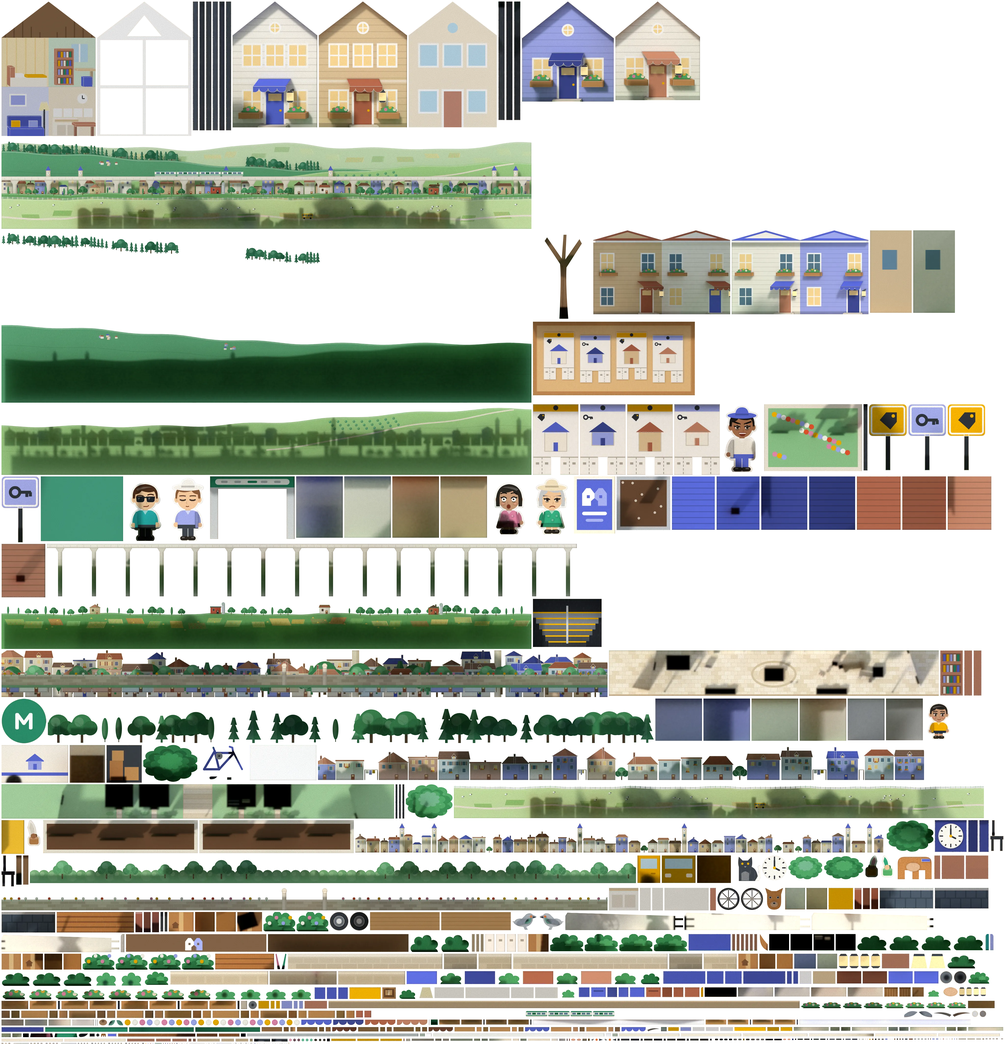
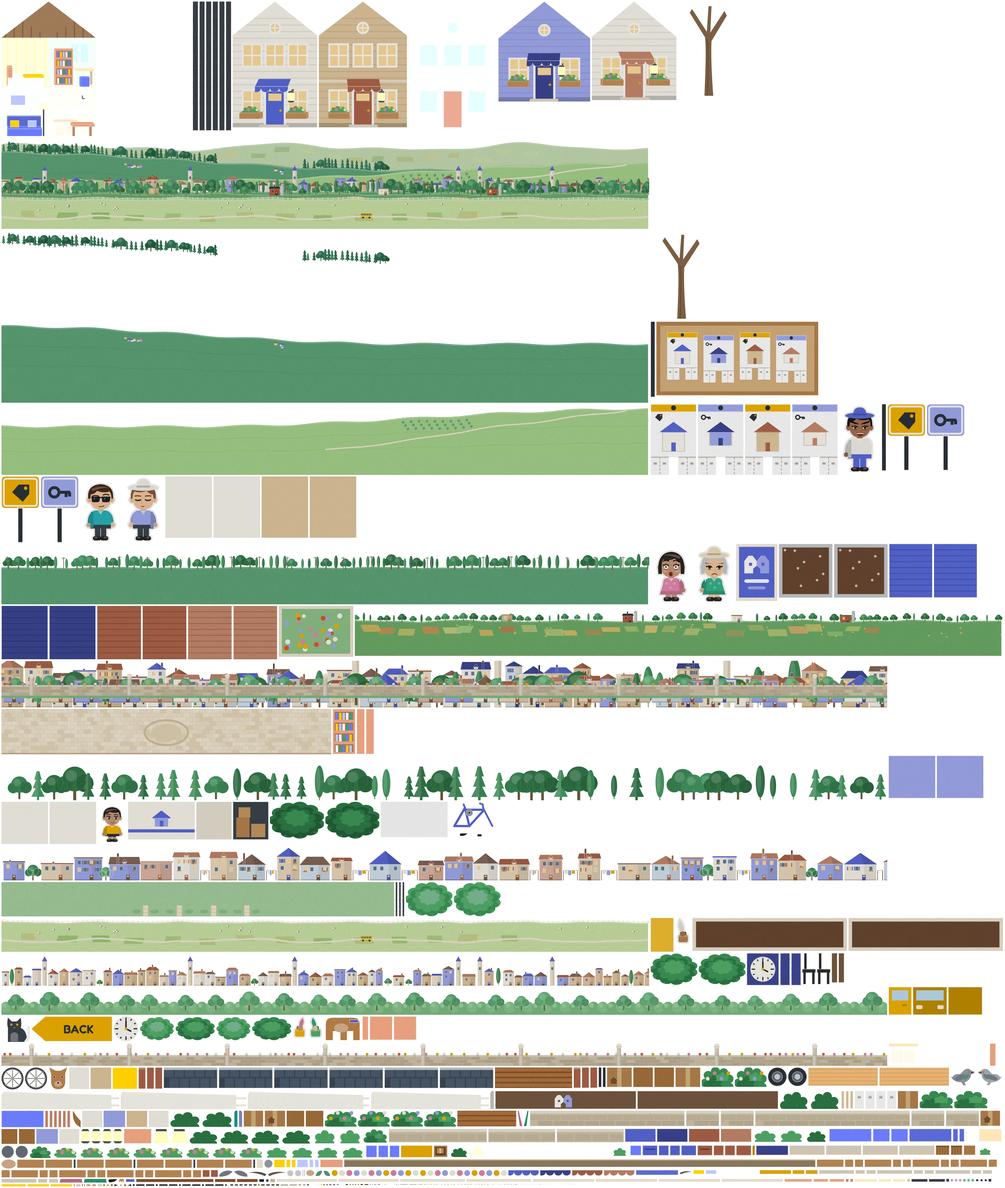
papercraft: a layout of its own for the hometown green; MRT pieces removed
The homes now close the middle of the back and the valley opens at both ends,
the reverse of the Blibli street. The relief buildings at the sides, the MRT
exit and the MRT line across the valley are gone; a poplar avenue takes the
line's place. The flyer board, the way back and the visit sign stand at the
open left end; the tree, bench and bicycle at the open right end.
The baked art in this commit predates these changes.

Claude-Session: https://claude.ai/code/session_01YPNotSbbJKW5yf9dC5KJqA

diff --git a/game/src/art/scenes/hometown.ts b/game/src/art/scenes/hometown.ts
@@ -3,10 +3,10 @@ import { CREAM, cloud } from '../recipes.ts';
 import { bench, bicycle, bush, disc, fawning, fbox, fflat, fflowers, flamp, frame, piece, pigeon, planter, shadeTree, shopper, toCamera, tone, type Frame } from './promenade.ts';
 import { streetLamp } from './street.ts';
 
-// Moperty's hometown square. You come up from the MRT into the square of a small town where a handful of homes are on
-// offer. The square is the main space. A lane between the homes drops to the valley, the one open view. A house turned
-// inward at each end closes the sides. Nothing here is a screen: the flyer board lists the homes, and a home opens on
-// its fold like a doll's house.
+// Moperty's hometown green. A handful of homes on offer stand shoulder to shoulder along the back of a green on a ridge.
+// The green is the main space. The homes close the middle of the back; at both ends the ridge falls away and the valley
+// is the open view, over a low wall. Nothing stands at the sides but trees. Nothing here is a screen: the flyer board
+// lists the homes, and a home opens on its fold like a doll's house.
 const INDIGO = '#5b6bdc', LAV = '#a3adf2', YEL = '#f5b400', BRICK = '#b0664c', TILE = '#c98a6e', STONE = '#e3c9a0', WHITE = '#fbf7ee', STEEL = '#2f343c', TEAL = '#2a8d6a';
 const LIT = '#ffdf9e', GLASS = '#5d7f95', GRASS = '#a9d3a2', KRAFT = '#b98450';
 const X0 = -1600, X1 = 1600, GARDEN = -60, BACK = -340, FRONT = 380, HZ = -150, HD = 190;
@@ -21,14 +21,14 @@ const mark = (k: number, a: string, b: string, m = '#fff') => `<g transform="sca
 const offer = (kind: Offer, c: string) => kind === 'sale' ? `<path d="M6 17L17 4H35V20L24 33Z" fill="${c}"/><circle cx="29" cy="10" r="3" fill="${YEL}"/>` : `<circle cx="11" cy="17" r="8" fill="none" stroke="${c}" stroke-width="5"/><path d="M19 17H38M31 17V25M37 17V24" stroke="${c}" stroke-width="5" fill="none"/>`;
 type Offer = 'sale' | 'rent';
 type Home = { id: string; x: number; w: number; wall: number; peak: number; c: string; roof: string; door: string; offer: Offer; storeys: 1 | 2; chimney?: boolean };
-// The four homes on the square, left to right. The lane runs between the second and the third.
+// The four homes on the green, left to right, close together: no way through between them.
 const HOMES: Home[] = [
-  { id: 'h1', x: -640, w: 230, wall: 250, peak: 92, c: WHITE, roof: INDIGO, door: INDIGO, offer: 'sale', storeys: 2, chimney: true },
-  { id: 'h2', x: -355, w: 250, wall: 172, peak: 100, c: LAV, roof: tone(INDIGO, -.32), door: tone(INDIGO, -.32), offer: 'rent', storeys: 1 },
-  { id: 'h3', x: 355, w: 240, wall: 250, peak: 92, c: STONE, roof: BRICK, door: BRICK, offer: 'sale', storeys: 2 },
-  { id: 'h4', x: 650, w: 230, wall: 172, peak: 96, c: WHITE, roof: TILE, door: TILE, offer: 'rent', storeys: 1, chimney: true }];
+  { id: 'h1', x: -425, w: 230, wall: 250, peak: 92, c: WHITE, roof: INDIGO, door: INDIGO, offer: 'sale', storeys: 2, chimney: true },
+  { id: 'h2', x: -150, w: 250, wall: 172, peak: 100, c: LAV, roof: tone(INDIGO, -.32), door: tone(INDIGO, -.32), offer: 'rent', storeys: 1 },
+  { id: 'h3', x: 130, w: 240, wall: 250, peak: 92, c: STONE, roof: BRICK, door: BRICK, offer: 'sale', storeys: 2 },
+  { id: 'h4', x: 400, w: 230, wall: 172, peak: 96, c: WHITE, roof: TILE, door: TILE, offer: 'rent', storeys: 1, chimney: true }];
 
-/* ---------- ground: the square, the front gardens and the lane ---------- */
+/* ---------- ground: the green's paving and the grass behind it ---------- */
 function ground(): Panel[] {
   const W = X1 - X0, D = FRONT - GARDEN, SETT = ['#f1e4cc', '#f6ecd8', '#e9dabd', '#f3e7d0'];
   let setts = '';
@@ -38,23 +38,23 @@ function ground(): Panel[] {
   // Both sheets ship as sixteen tiles: the camera here leans in close, and with wider tiles the browser's 3D sorting tears
   // holes in the ground where standing pieces' planes cut across it.
   const square: Panel = { id: 'square', stock: 'greyboard', c: '#e2d3b6', w: W, h: D, o: [X0, 0, FRONT], u: [1, 0, 0], v: [0, 0, -1], density: .42, edge: 'fold', split: 16, print: `<rect width="${W}" height="${D}" fill="#dccdb0"/>${setts}${ring}<rect y="${D - 14}" width="${W}" height="14" fill="#cdb48c"/>` };
-  // The gardens: grass, with the lane's setts running through and a path from each gate to its door.
+  // The grass behind: the homes' gardens in the middle, open verge at both ends, and a path from each gate to its door.
   const GD = GARDEN - BACK;
   const paths = HOMES.map(h => `<rect x="${h.x - X0 - 22}" y="${GD - (GARDEN - HZ)}" width="44" height="${GARDEN - HZ}" fill="#e9dabd"/>${[0, 1, 2].map(k => `<rect x="${h.x - X0 - 18}" y="${GD - 28 - k * 30}" width="36" height="22" rx="4" fill="#f6ecd8"/>`).join('')}`).join('');
   const beds = HOMES.map(h => `<ellipse cx="${h.x - X0 - h.w * .32}" cy="${GD - 40}" rx="34" ry="16" fill="#8fc48a"/><ellipse cx="${h.x - X0 + h.w * .32}" cy="${GD - 40}" rx="34" ry="16" fill="#8fc48a"/>`).join('');
   const garden: Panel = { id: 'garden', stock: 'sugar', c: GRASS, w: W, h: GD, o: [X0, 0, GARDEN], u: [1, 0, 0], v: [0, 0, -1], density: .5, edge: 'fold', split: 16,
-    print: `<rect width="${W}" height="${GD}" fill="${GRASS}"/><rect x="${-X0 - 120}" width="240" height="${GD}" fill="#dccdb0"/>${Array.from({ length: 7 }, (_, i) => `<rect x="${-X0 - 116}" y="${i * 40 + 2}" width="232" height="36" fill="${SETT[i % 4]}"/>`).join('')}${paths}${beds}` };
+    print: `<rect width="${W}" height="${GD}" fill="${GRASS}"/>${paths}${beds}` };
   const skirt: Panel = { id: 'square-skirt', stock: 'greyboard', c: '#9a8566', w: W, h: 50, o: [X0, -50, FRONT + 1], u: [1, 0, 0], v: [0, 1, 0], density: .6, edge: 'cut', split: 2, print: `<rect width="${W}" height="8" fill="#cdb48c"/>` };
   return [square, garden, skirt];
 }
 
-/* ---------- the open view down the lane: a shadow box ---------- */
+/* ---------- the open view at both ends of the green: a shadow box ---------- */
 // Thin cut layers stood well apart, alternating pale and deep, each shading the next; real in the bake, then flattened
 // onto two cards. Card one is the lower town just below the square. Card two, further back, is the valley floor and the
 // far bank and the hills.
 type Card = { id: string; x0: number; z: number; w: number; density: number };
-const NEAR: Card = { id: 'lane-near', x0: -1300, z: -480, w: 2600, density: .95 };
-const FAR: Card = { id: 'lane-far', x0: -1800, z: -740, w: 3600, density: .6 };
+const NEAR: Card = { id: 'lane-near', x0: -1900, z: -480, w: 3800, density: .95 };
+const FAR: Card = { id: 'lane-far', x0: -2200, z: -740, w: 4400, density: .6 };
 const sheet = (card: Card, id: string, gap: number, y0: number, h: number, c: string, mask: string, print = '', stock: Panel['stock'] = 'sugar'): Panel =>
   ({ id, stock, c, w: card.w, h, o: [card.x0, y0, card.z + gap], u: [1, 0, 0], v: [0, 1, 0], edge: 'cut', density: card.density, decal: card.id, mask, print });
 /* The landscape kit. Every layer of the view is one cut sheet whose top edge is a profile: a height above the sheet's
@@ -162,13 +162,13 @@ function laneView(): Panel[] {
   // 4. Back gardens: a clipped hedge with fruit trees and bean poles standing out of it.
   const GH = 118; let gm = `<rect y="${GH - 30}" width="${W}" height="30" fill="#fff"/>`, gp = '';
   for (let x = 0; x < W; x += 40) { gm += `<circle cx="${x + 20}" cy="${GH - 32}" r="24" fill="#fff"/>`; gp += `<circle cx="${x + 20}" cy="${GH - 32}" r="24" fill="${x % 80 ? '#7fbf86' : '#8fc994'}"/><circle cx="${x + 12}" cy="${GH - 40}" r="10" fill="#a3d6a3"/>`; }
-  const orchard = woods(W, GH, () => 30, [[0, mid - 200], [mid + 200, W]], ['oak'], ['#5fb07a', '#6fbf86'], 60, 84, 150);
-  // 5. The wall at the foot of the lane: stone, coped, with gate posts where the lane goes through and flowers along it.
+  const orchard = woods(W, GH, () => 30, [[0, W]], ['oak'], ['#5fb07a', '#6fbf86'], 60, 84, 150);
+  // 5. The wall along the back of the green: coursed stone with a coping, flowers growing along its top, a pier every so often.
   const WH = 96;
   let wm = `<rect y="${WH - 46}" width="${W}" height="46" fill="#fff"/>`, wp = `<rect y="${WH - 46}" width="${W}" height="46" fill="#cfc2aa"/><rect y="${WH - 46}" width="${W}" height="7" fill="#e6dccb"/>`;
   for (let row = 0; row < 3; row++) for (let x = row % 2 ? -18 : 0; x < W; x += 36) wp += `<rect x="${x + 1}" y="${WH - 38 + row * 13}" width="34" height="11" fill="${pick(['#c6b89e', '#d6c9b0', '#bfb096'])}"/>`;
-  for (let x = 14; x < W; x += r(22, 60)) if (Math.abs(x - mid) > 120) { wm += `<circle cx="${f(x)}" cy="${WH - 50}" r="6" fill="#fff"/>`; wp += `<circle cx="${f(x)}" cy="${WH - 50}" r="6" fill="${pick(['#e8552d', YEL, '#e88ab0', WHITE])}"/><rect x="${f(x - 1)}" y="${WH - 46}" width="2" height="6" fill="#4aa067"/>`; }
-  for (const gx of [mid - 96, mid + 78]) { wm += `<rect x="${gx}" y="14" width="18" height="${WH - 14}" fill="#fff"/><circle cx="${gx + 9}" cy="12" r="11" fill="#fff"/>`; wp += `<rect x="${gx}" y="14" width="18" height="${WH - 14}" fill="#e6dccb"/><rect x="${gx + 12}" y="14" width="6" height="${WH - 14}" fill="#d3c7b2"/><circle cx="${gx + 9}" cy="12" r="11" fill="#fff4e2"/>`; }
+  for (let x = 14; x < W; x += r(22, 60)) { wm += `<circle cx="${f(x)}" cy="${WH - 50}" r="6" fill="#fff"/>`; wp += `<circle cx="${f(x)}" cy="${WH - 50}" r="6" fill="${pick(['#e8552d', YEL, '#e88ab0', WHITE])}"/><rect x="${f(x - 1)}" y="${WH - 46}" width="2" height="6" fill="#4aa067"/>`; }
+  for (let gx = 120; gx < W; gx += 420) { wm += `<rect x="${gx}" y="14" width="18" height="${WH - 14}" fill="#fff"/><circle cx="${gx + 9}" cy="12" r="11" fill="#fff"/>`; wp += `<rect x="${gx}" y="14" width="18" height="${WH - 14}" fill="#e6dccb"/><rect x="${gx + 12}" y="14" width="6" height="${WH - 14}" fill="#d3c7b2"/><circle cx="${gx + 9}" cy="12" r="11" fill="#fff4e2"/>`; }
 
   // Card two, the valley, back to front. Nine layers, 30 to 50 units apart, alternating pale and deep. There is no water
   // in it: the Blibli street already has the river.
@@ -190,12 +190,9 @@ function laneView(): Panel[] {
   const road = `<path d="${rd}" stroke="#f4ead8" stroke-width="9" fill="none" stroke-linejoin="round"/>`;
   // 5. The far bank's town: a street of houses with towers and poplars.
   const DH = 220, town = street(FW, DH, 54, 110, 46, 88, ['#f4ead8', STONE, '#e8c9a8', WHITE, LAV], [BRICK, TILE, INDIGO, '#8a6a5c'], '#7c7f9c', .3, .4, ['poplar', 'tower', 'oak', 'oak']);
-  // 6. The MRT line crossing the valley on slim concrete piers, with a train on it: the line you arrived by, above ground.
-  const VH = 356, deck = 28, vm = `<rect width="${FW}" height="${deck}" fill="#fff"/>` + Array.from({ length: Math.ceil(FW / 230) }, (_, i) => `<path d="M${i * 230 + 60} ${deck}h60l-16 26V${VH}h-28V${deck + 26}Z" fill="#fff"/>`).join('');
-  const vp = `<rect width="${FW}" height="${deck}" fill="#e9e5da"/><rect width="${FW}" height="7" fill="#f8f5ec"/><rect y="${deck - 6}" width="${FW}" height="6" fill="#cfc9bb"/>` + Array.from({ length: Math.ceil(FW / 230) }, (_, i) => `<path d="M${i * 230 + 60} ${deck}h60l-16 26V${VH}h-28V${deck + 26}Z" fill="#dcd7ca"/><rect x="${i * 230 + 94}" y="${deck + 26}" width="10" height="${VH}" fill="#c9c3b4"/>`).join('') +
-    Array.from({ length: Math.ceil(FW / 46) }, (_, i) => `<rect x="${i * 46 + 20}" y="8" width="2.4" height="${deck - 14}" fill="#cfc9bb"/>`).join('');
-  const tx = fmid - 760, cars = [0, 1, 2, 3].map(i => `<rect x="${tx + i * 152}" y="2" width="146" height="40" rx="9" fill="FILL"/>`).join('');
-  const train = `${[0, 1, 2, 3].map(i => `<rect x="${tx + i * 152}" y="2" width="146" height="40" fill="${WHITE}"/><rect x="${tx + i * 152}" y="2" width="146" height="8" fill="${TEAL}"/><rect x="${tx + i * 152}" y="30" width="146" height="5" fill="${TEAL}"/>${[0, 1, 2, 3].map(k => `<rect x="${tx + i * 152 + 12 + k * 32}" y="14" width="24" height="12" fill="${k === 1 ? tone(TEAL, -.3) : GLASS}"/>`).join('')}`).join('')}`;
+  // 6. An avenue of poplars along the road below the town, on a low green bank, with telegraph poles between them.
+  const VH = 300, bank: Prof = rolling(250, 5, 140, 2.2), avenue = woods(FW, VH + 110, bank, [[0, FW]], ['poplar', 'poplar', 'oak'], ['#3f8f5a', '#347a4b', '#4aa067'], 70, 104, 58);
+  let pm = '', pp = ''; for (let x = 40; x < FW; x += 190) { const y = VH + 110 - bank(x) - 74; pm += `<rect x="${x}" y="${f(y)}" width="4" height="80" fill="#fff"/><rect x="${x - 12}" y="${f(y + 6)}" width="28" height="3" fill="#fff"/>`; pp += `<rect x="${x}" y="${f(y)}" width="4" height="80" fill="#7a5c42"/><rect x="${x - 12}" y="${f(y + 6)}" width="28" height="3" fill="#7a5c42"/>`; }
   // 7. Farmland on the valley floor: a deep band patched with ploughed fields, hedgerow trees, barns and a silo on its crest.
   const GHh = 250, farm: Prof = rolling(238, 9, 120, 1.7), farmTrees = woods(FW, GHh + 90, farm, [[0, fmid - 500], [fmid - 260, fmid + 200], [fmid + 520, FW]], ['oak', 'oak', 'poplar'], ['#3f8f5a', '#4aa067', '#347a4b'], 40, 64, 70);
   const barns: Art[] = [fmid - 380, fmid + 360, fmid + 1100, fmid - 1200].map((x, i) => join([building(x, GHh + 90 - farm(x) + 6, 70, 44, ['#c8553d', WHITE, '#c8553d', STONE][i], [STEEL, BRICK, '#5d4a3c', TILE][i], '#5d4a3c', 0),
@@ -217,7 +214,7 @@ function laneView(): Panel[] {
     far, sheet(FAR, 'lane-wood', 36, fy, BHh + 60, '#2f7453', wood1.m, wood1.p), sheet(FAR, 'lane-ridge', 52, fy, BHh, '#5fa77a', cut(FW, BHh, b), ridgeArt),
     sheet(FAR, 'lane-orchard', 92, fy, CHh, '#a9d68f', cut(FW, CHh, c2), crest(FW, CHh, c2, '#a9d68f') + orch + road),
     sheet(FAR, 'lane-town', 126, 140, DH, STONE, town.m, town.p),
-    sheet(FAR, 'lane-train', 156, fy + VH - 2, 44, WHITE, cars.replaceAll('FILL', '#fff'), train, 'cover'), sheet(FAR, 'lane-viaduct', 168, fy, VH, '#e9e5da', vm, vp, 'greyboard'),
+    sheet(FAR, 'lane-avenue', 164, fy, VH + 110, '#5fa77a', cut(FW, VH + 110, bank) + avenue.m + pm, crest(FW, VH + 110, bank, '#5fa77a', 0) + avenue.p + pp),
     sheet(FAR, 'lane-farm', 200, fy, GHh + 90, '#6fae6a', cut(FW, GHh + 90, farm) + farmTop.m, crest(FW, GHh + 90, farm, '#6fae6a', 0) + patches + hay + farmTop.p),
     sheet(FAR, 'lane-meadow', 232, fy, MH + 16, '#cfe6a8', cut(FW, MH + 16, mead) + fm + railsM, crest(FW, MH + 16, mead, '#cfe6a8', 0) + plots + `<path d="${ln}" stroke="#f4ead8" stroke-width="12" fill="none"/>` + bus + sheep + fp + rails)];
 }
@@ -353,7 +350,7 @@ const offerSign = (h: Home, i: number): Panel => ({ id: `sign-${i}`, stock: 'cov
   motion: { toy: 'flyer', at: [i + 1], slide: [0, 26, 0] } });
 
 /* ---------- the flyer board ---------- */
-// A roofed noticeboard at the mouth of the lane, one flyer for each home on the square: the home's own colours, a ribbon
+// A roofed noticeboard at the left end of the green, one flyer for each home on the square: the home's own colours, a ribbon
 // in yellow (for sale) or lavender (for rent), and a fringe of tear-off tabs. Each A tears one tab off the next flyer.
 function flyerBoard(x: number, z: number, rot: number): Panel[] {
   const P = piece(x, z, rot), W = 330, BH = 150, y0 = 62;
@@ -374,23 +371,6 @@ function flyerBoard(x: number, z: number, rot: number): Panel[] {
     return [body, tab];
   });
   return [back, ...posts, ...roof, ...flyers];
-}
-
-/* ---------- the MRT exit ---------- */
-// A small head house: the stair down to the platforms under a teal canopy, and the station totem beside it.
-function mrtExit(x: number, z: number): Panel[] {
-  const W = 230, H = 170, D = 150, x0 = x - W / 2, fz = z + D / 2;
-  const front: Panel = { id: 'mrt-front', stock: 'greyboard', c: '#c9d0d6', w: W, h: H, o: [x0, 0, fz], u: [1, 0, 0], v: [0, 1, 0], edge: 'cut', density: 1.5,
-    mask: `<path fill-rule="evenodd" d="M0 0H${W}V${H}H0Z M22 ${H}V34H${W - 22}V${H}Z" fill="#fff"/>`, print: `<rect width="${W}" height="${H}" fill="#c9d0d6"/><rect width="${W}" height="30" fill="${TEAL}"/><rect x="14" y="7" width="${W - 28}" height="16" rx="8" fill="#fff"/>${[0, 1, 2, 3, 4].map(k => `<rect x="${30 + k * 36}" y="12" width="${k === 2 ? 26 : 18}" height="6" rx="3" fill="${k === 2 ? TEAL : '#b9c0c8'}"/>`).join('')}` };
-  // The stair, going down into the dark: each tread a step lower and a tone deeper.
-  const stair: Panel = { id: 'mrt-stair', stock: 'greyboard', c: '#3d444e', w: W - 30, h: H - 30, o: [x0 + 15, 0, fz - 40], u: [1, 0, 0], v: [0, 1, 0], edge: 'fold', density: 1.4, emit: .2,
-    print: `<rect width="${W - 30}" height="${H - 30}" fill="#23272d"/>${[0, 1, 2, 3, 4, 5].map(k => `<rect x="${k * 9}" y="${H - 30 - (6 - k) * 17}" width="${W - 30 - k * 18}" height="17" fill="${tone('#8e96a3', -k * .12)}"/><rect x="${k * 9}" y="${H - 30 - (6 - k) * 17}" width="${W - 30 - k * 18}" height="4" fill="${YEL}"/>`).join('')}<rect x="${(W - 30) / 2 - 3}" y="20" width="6" height="${H - 60}" fill="#c9d0d6"/>` };
-  const walls = box({ id: 'mrt-body', x, z, w: W, h: H, d: D, stock: 'greyboard', c: '#c9d0d6', side: '#b7bfc7', noTop: true, density: 1 }).filter(p => !p.id.endsWith('front'));
-  const canopy = box({ id: 'mrt-canopy', x, z: z + 16, y: H, w: W + 50, h: 16, d: D + 70, stock: 'cover', c: TEAL, front: `<rect width="${W + 50}" height="5" fill="${tone(TEAL, -.25)}"/>`, top: `<rect width="${W + 50}" height="${D + 70}" fill="${tone(TEAL, .12)}"/>`, density: 1.2 });
-  // The totem: a post with the line's roundel.
-  const tx = x + W / 2 + 46, post = box({ id: 'mrt-totem', x: tx, z: fz + 6, w: 12, h: 230, d: 12, stock: 'greyboard', c: STEEL, noTop: true });
-  const roundel: Panel = { id: 'mrt-roundel', stock: 'cover', c: TEAL, w: 76, h: 76, o: [tx - 38, 218, fz + 13], u: [1, 0, 0], v: [0, 1, 0], edge: 'cut', density: 2.4, mask: disc(38), print: `<circle cx="38" cy="38" r="31" fill="${TEAL}"/><text x="38" y="52" text-anchor="middle" font-family="Fredoka" font-weight="600" font-size="40" fill="#fff">M</text>` };
-  return [front, stair, ...walls, ...canopy, ...post, roundel];
 }
 
 /* ---------- moving day ---------- */
@@ -454,6 +434,12 @@ const cat = (id: string, x: number, y: number, z: number, c: string): Panel => (
 // A letter box on a post by a gate.
 const letterBox = (id: string, x: number, z: number, c: string): Panel[] => [{ id: `${id}-post`, stock: 'greyboard', c: STEEL, w: 6, h: 44, o: [x - 3, 0, z], u: [1, 0, 0], v: [0, 1, 0], edge: 'fold', density: 1.8 },
   ...box({ id, x, z, y: 44, w: 30, h: 20, d: 20, stock: 'cover', c, front: `<rect x="5" y="6" width="20" height="3" fill="${tone(c, -.3)}"/>`, density: 2 })];
+// The way back: a finger-post whose arrow points off the green. The arrow is a cut card; the post is a flat strip.
+function wayBack(x: number, z: number): Panel[] {
+  return [{ id: 'back-post', stock: 'greyboard', c: STEEL, w: 9, h: 170, o: [x - 4.5, 0, z], u: [1, 0, 0], v: [0, 1, 0], edge: 'fold', density: 1.8 },
+    { id: 'back-arrow', stock: 'cover', c: YEL, w: 150, h: 46, o: [x - 140, 118, z + 3], u: [1, 0, 0], v: [0, 1, 0], edge: 'cut', density: 2.2, mask: '<path d="M26 0H150V46H26L0 23Z" fill="#fff"/>',
+      print: `<rect width="150" height="46" fill="${YEL}"/><text x="88" y="31" text-anchor="middle" font-family="Fredoka" font-weight="600" font-size="22" fill="${STEEL}">BACK</text>` }];
+}
 // The sign that takes you to the product itself: a folded A-board with the mark.
 function aBoard(id: string, x: number, z: number, rot: number): Panel[] {
   const P = piece(x, z, rot), face = `<rect x="5" y="5" width="60" height="86" fill="${INDIGO}"/><g transform="translate(14 20)">${mark(1, '#fff', LAV, INDIGO)}</g><rect x="14" y="60" width="42" height="6" rx="3" fill="#fff"/><rect x="20" y="72" width="30" height="5" rx="2.5" fill="${LAV}"/>`;
@@ -461,55 +447,37 @@ function aBoard(id: string, x: number, z: number, rot: number): Panel[] {
     { ...P(`${id}-b`, [35, 0, -14], [-1, 0, 0], unit([0, 96, 14]), 70, Math.hypot(96, 14), { stock: 'cover', c: CREAM, density: 1 }), ghost: true }];
 }
 
-/* ---------- the sides, and everything on the square ---------- */
+/* ---------- everything on the green ---------- */
 function surroundings(): Panel[] {
-  // Left: a row of two terraced houses turned in toward the square.
-  const terrace = (id: string, F: Frame, W: number, H: number, cols: [string, string], roofC: string, doors: [string, string]): Panel[] => {
-    const half = W / 2, g = 150;
-    const win = (x: number, y: number, lit: boolean) => `<rect x="${x}" y="${H - y - 88}" width="66" height="88" fill="#fff"/><rect x="${x + 6}" y="${H - y - 82}" width="54" height="76" fill="${lit ? LIT : GLASS}"/><path d="M${x + 33} ${H - y - 82}v76M${x + 6} ${H - y - 44}h54" stroke="#fff" stroke-width="4"/>`;
-    const one = (x: number, c: string, door: string, k: number) => `<rect x="${x}" width="${half}" height="${H}" fill="${c}"/>${Array.from({ length: Math.floor(H / 20) }, (_, i) => `<path d="M${x} ${46 + i * 20}h${half}" stroke="${tone(c, -.1)}" stroke-width="2"/>`).join('')}<rect x="${x}" y="${H - 12}" width="${half}" height="12" fill="${tone(c, -.2)}"/>` +
-      win(x + 30, g + 40, k === 0) + win(x + half - 96, g + 40, k === 1) + win(x + 30, 36, k === 1) +
-      `<rect x="${x + half - 100}" y="${H - 120}" width="64" height="120" fill="#fff"/><rect x="${x + half - 94}" y="${H - 114}" width="52" height="114" fill="${door}"/><rect x="${x + half - 88}" y="${H - 108}" width="40" height="22" fill="${LIT}"/>`;
-    const front: Panel = { id: `${id}-front`, stock: 'cover', c: cols[0], w: W, h: H, o: F.o, u: F.u, v: [0, 1, 0], edge: 'cut', density: .9,
-      mask: `<path d="M0 ${H}V44L${half / 2} 0L${half} 44L${half * 1.5} 0L${W} 44V${H}Z" fill="#fff"/>`, print: one(0, cols[0], doors[0], 0) + one(half, cols[1], doors[1], 1) + `<path d="M0 44L${half / 2} 0L${half} 44Z M${half} 44L${half * 1.5} 0L${W} 44Z" fill="none" stroke="${roofC}" stroke-width="16"/>` };
-    const end: Panel = { id: `${id}-end`, stock: 'cover', c: tone(cols[0], -.12), w: 170, h: H - 44, o: add(F.o, F.n, -170), u: F.n, v: [0, 1, 0], edge: 'fold', density: 1, print: `<rect x="50" y="80" width="60" height="80" fill="${GLASS}"/>` };
-    return [front, end, ...carved(front, [
-      ...[0, 1].flatMap(k => [...fflowers(F, `${id}-fl${k}a`, k * half + 26, g + 24, 74), ...fflowers(F, `${id}-fl${k}b`, k * half + half - 100, g + 24, 74), ...fawning(F, `${id}-porch${k}`, k * half + half - 112, 150, 88, 40, 20, roofC, false), ...flamp(F, `${id}-lamp${k}`, k * half + half - 20, 80),
-        ...fbox(F, `${id}-step${k}`, k * half + half - 108, 0, 0, 80, 8, 22, { c: '#e6dccb' })]),
-      ...fbox(F, `${id}-eaves`, 0, H - 56, 0, W, 10, 18, { c: '#fff' })])];
-  };
-  const L = frame(-1210, 330, 80), R = frame(1230, -300, -72);
-  const sides = [...terrace('left', L, 620, 380, [STONE, WHITE], BRICK, [BRICK, INDIGO]), ...terrace('right', R, 620, 380, [WHITE, LAV], INDIGO, [TILE, tone(INDIGO, -.3)])];
-
-  const h3 = HOMES[2], h4 = HOMES[3], h2 = HOMES[1], h1 = HOMES[0];
-  return [...sides,
-    ...HOMES.flatMap((h, i) => [...home(h, h === h3), ...fence(h), offerSign(h, i), ...bush(`${h.id}-bush`, h.x + h.w / 2 + 8, GARDEN - 22, 96, 50)]), ...rooms(h3),
-    // The MRT exit at the left end of the square, with the way to the product beside it.
-    ...mrtExit(-930, 60), ...aBoard('visit', -716, 44, -8),
-    // The flyer board stands at the mouth of the lane.
-    ...flyerBoard(-84, -74, 0),
-    // Small stories. A couple looking over the home that opens; a neighbour at her gate; a cat on the next fence.
-    ...shopper('viewer-a', h3.x - 130, 196, { coat: '#e88ab0', legs: '#22324a', skin: '#c99a7a', hair: '#2b2622', style: 'dress', face: 'surprised', carry: YEL }, true),
-    ...shopper('viewer-b', h3.x - 182, 186, { coat: '#2bb5b8', legs: '#3d444e', skin: '#f3c9a0', hair: '#4a2c1a', build: 'average', face: 'cool' }, false, 1, 0, false),
+  const [h1, h2, h3, h4] = HOMES;
+  return [
+    ...HOMES.flatMap((h, i) => [...home(h, h === h3), ...fence(h), offerSign(h, i)]), ...rooms(h3),
+    ...bush('h1-bush', h1.x - h1.w / 2 - 40, GARDEN - 22, 96, 50), ...bush('h4-bush', h4.x + h4.w / 2 + 44, GARDEN - 22, 96, 50),
+    // The left end, open to the valley: the way back, the flyer board, and the way to the product itself.
+    ...wayBack(-1010, 60), ...flyerBoard(-800, -80, 0), ...aBoard('visit', -600, 30, -8),
+    ...shadeTree('tree-l', -1230, 40, 320), ...planter('tree-l-bed', -1230, 40, 104),
+    // Small stories. A couple by the clock; a neighbour at her gate; a cat on the next fence.
+    ...shopper('viewer-a', -150, 204, { coat: '#e88ab0', legs: '#22324a', skin: '#c99a7a', hair: '#2b2622', style: 'dress', face: 'surprised', carry: YEL }, true),
+    ...shopper('viewer-b', -204, 194, { coat: '#2bb5b8', legs: '#3d444e', skin: '#f3c9a0', hair: '#4a2c1a', build: 'average', face: 'cool' }, false, 1, 0, false),
     ...shopper('neighbour', h1.x + 70, -34, { coat: '#35b58a', legs: '#f4f1ea', skin: '#f3c9a0', hair: '#c9ccd1', style: 'dress', hat: '#f4e3c3', face: 'grumpy', carry: '#57b36f' }),
-    cat('cat', h2.x - 80, 40, GARDEN + 3, '#3d444e'), ...letterBox('box-h2', h2.x + 62, GARDEN + 16, INDIGO), ...letterBox('box-h3', h3.x - 60, GARDEN + 16, BRICK),
-    // Moving day at the last home: the van, cartons on the paving, the mover carrying one in, a child watching.
-    ...van('van', h4.x + 120, 96, 8), ...carton('carton-a', h4.x - 60, 70, 56, 44, 44, -8), ...carton('carton-b', h4.x - 66, 68, 44, 34, 36, 10, 44), ...carton('carton-c', h4.x - 2, 100, 46, 36, 40, 14),
-    ...shopper('mover', h4.x - 6, -10, { coat: '#f4f1ea', legs: '#5b6bdc', skin: '#a8714f', hair: '#1d1a17', build: 'big', face: 'determined', carry: KRAFT, hat: INDIGO }),
-    ...shopper('child', h4.x - 130, 150, { coat: YEL, legs: '#22324a', skin: '#c99a7a', hair: '#2b2622', style: 'shorts', face: 'cheerful' }, false, .7, 0, false),
-    ...dog('dog', h4.x - 190, 176, -30, '#c98a4e'),
+    cat('cat', h2.x - 80, 40, GARDEN + 3, '#3d444e'), ...letterBox('box-h2', h2.x + 62, GARDEN + 16, INDIGO), ...letterBox('box-h3', h3.x + 64, GARDEN + 16, BRICK),
+    // Moving day at the last home: the van, cartons on the paving, the mover carrying one in, a child and a dog watching.
+    ...van('van', h4.x + 150, 96, 8), ...carton('carton-a', h4.x - 40, 70, 56, 44, 44, -8), ...carton('carton-b', h4.x - 46, 68, 44, 34, 36, 10, 44), ...carton('carton-c', h4.x + 18, 100, 46, 36, 40, 14),
+    ...shopper('mover', h4.x + 10, -10, { coat: '#f4f1ea', legs: '#5b6bdc', skin: '#a8714f', hair: '#1d1a17', build: 'big', face: 'determined', carry: KRAFT, hat: INDIGO }),
+    ...shopper('child', h4.x - 60, 190, { coat: YEL, legs: '#22324a', skin: '#c99a7a', hair: '#2b2622', style: 'shorts', face: 'cheerful' }, false, .7, 0, false),
+    ...dog('dog', h4.x - 120, 210, -30, '#c98a4e'),
     ...pigeon('pigeon-a', 150, 250, -20, '#9aa3ad'), ...pigeon('pigeon-b', 198, 262, 16, '#b3bac3', true),
-    // The right end: a shade tree over a bench, someone dozing beside it.
-    ...shadeTree('tree', 1010, 150, 300), ...planter('tree-bed', 1010, 150, 104), ...bench('bench', 880, 210, 150, -10), ...bicycle('bike', 1090, 40, -8, INDIGO),
-    ...shopper('dozer', 930, 250, { coat: LAV, legs: '#3d444e', skin: '#f3c9a0', hair: '#8a5a3a', build: 'average', face: 'sleepy', hat: '#f4f1ea' }, true, 1, 0, false),
-    // The front edge: a lamp at each end and two low beds of bushes.
-    ...streetLamp('lamp-a', -1060, 340, 250, '#ffe7a8'), ...streetLamp('lamp-b', 1150, 344, 250, '#ffe7a8'),
+    // The right end, open to the valley: a shade tree over a bench, someone dozing, a bicycle against the tree's bed.
+    ...shadeTree('tree', 900, 60, 300), ...planter('tree-bed', 900, 60, 104), ...bench('bench', 800, 150, 150, -10), ...bicycle('bike', 1010, -20, -8, INDIGO),
+    ...shopper('dozer', 850, 196, { coat: LAV, legs: '#3d444e', skin: '#f3c9a0', hair: '#8a5a3a', build: 'average', face: 'sleepy', hat: '#f4f1ea' }, true, 1, 0, false),
+    // The front edge: a lamp at each end and two long beds of bushes.
+    ...streetLamp('lamp-a', -1100, 340, 250, '#ffe7a8'), ...streetLamp('lamp-b', 1150, 344, 250, '#ffe7a8'),
     ...longBed('front-bed-a', -520, 338, 300), ...longBed('front-bed-b', 560, 338, 300),
-    // The middle of the square: the town clock in its bed of flowers.
+    // The middle of the green: the town clock in its bed of flowers.
     ...clockBed(0, 176)];
 }
 
 export function hometown(): Scene {
-  return { id: 'hometown', density: 2.1, camera: { zoom: .85, x0: -420, x1: 380 }, light: { sun: 2.6, sky: .62, skyColor: [.86, .92, 1] },
+  return { id: 'hometown', density: 2.1, camera: { zoom: .85, x0: -400, x1: 340 }, light: { sun: 2.6, sky: .62, skyColor: [.86, .92, 1] },
     panels: [...backdrop(), ...ground(), ...laneView(), ...surroundings()] };
 }

diff --git a/game/src/content.ts b/game/src/content.ts
@@ -18,7 +18,7 @@ export const content: Content = validateContent({ worlds: {
   crossroads: { id: 'crossroads', art: 'blockout', bounds: B, solid: [], title: 'Crossroads', path: 'round', color: '#8d95a0',
     stops: [
       { id: 'road-blibli', label: 'Blibli.com', x: -660, z: 0, reach: 300, action: { kind: 'road', to: 'blibli', stop: 'mailbox' } },
-      { id: 'road-moperty', label: 'Moperty', x: 0, z: -220, reach: 120, action: { kind: 'road', to: 'moperty', stop: 'visit' } },
+      { id: 'road-moperty', label: 'Moperty', x: 0, z: -220, reach: 120, action: { kind: 'road', to: 'moperty', stop: 'board' } },
       { id: 'crossing', label: 'Crossroads', x: 0, z: 70, action: { kind: 'letter', letter: 'hello' } },
       { id: 'road-radjastone', label: 'Radjastone', x: 660, z: 0, reach: 300, action: { kind: 'road', to: 'radjastone', stop: 'quarry' } },
       { id: 'mailbox', label: 'Mailbox', x: 280, z: -90, action: { kind: 'letter', letter: 'contact' } } ],
@@ -89,17 +89,17 @@ export const content: Content = validateContent({ worlds: {
       { fact: 'A few learnings...', at: ['camera', 'gallery'] },
       { fact: "Try our best to test on real device :). This time is my first encounter with an issue that uploaded image is rotated when uploaded using mobile web's camera capture (caused by EXIF orientation that needs to be handled).", at: ['camera'] },
       { fact: 'User generated images vary in ratio. Consider all possibilities when developing the UI components displaying these images!', at: ['gallery'] } ] },
-  // Moperty: the square of a small hometown where a handful of homes are on offer. Only the product is shown, and by
-  // things you can touch: a board of flyers, signs in the gardens, a home that opens. No screens, no tech.
-  moperty: { id: 'moperty', art: 'hometown', back: { world: 'crossroads', stop: 'road-moperty' }, camera: { zoom: .85, x0: -420, x1: 380 }, bounds: { x0: -1000, x1: 900, z0: -40, z1: 240 },
-    solid: [{ x0: -1050, x1: -810, z0: -40, z1: 140 }, { x0: 660, x1: 880, z0: 40, z1: 150 }, { x0: -100, x1: 100, z0: 106, z1: 240 }],
+  // Moperty: a green on a ridge in a small hometown, where a handful of homes are on offer. Only the product is shown, and
+  // by things you can touch: a board of flyers, signs in the gardens, a home that opens. No screens, no tech.
+  moperty: { id: 'moperty', art: 'hometown', back: { world: 'crossroads', stop: 'road-moperty' }, camera: { zoom: .85, x0: -400, x1: 340 }, bounds: { x0: -1060, x1: 900, z0: -40, z1: 240 },
+    solid: [{ x0: 430, x1: 660, z0: 40, z1: 150 }, { x0: -100, x1: 100, z0: 106, z1: 240 }],
     title: 'Moperty', path: 'street', url: 'https://moperty.id', role: 'In My Free Time Developing', color: '#3f51b5', logo: 'brand/moperty-white.svg',
     description: 'A progressive web app to browse available real estate in local area around my hometown.',
     stops: [
-      { id: 'way-out', label: 'Back to the crossroads', x: -930, z: 180, reach: 100, action: { kind: 'road', to: 'crossroads', stop: 'road-moperty' } },
-      { id: 'visit', label: 'Visit Moperty', x: -640, z: 110, action: { kind: 'link', href: 'https://moperty.id' } },
-      { id: 'board', label: 'Flyer board', x: -84, z: -10, focus: 1.5, look: -84, action: { kind: 'toy', toy: 'flyer', states: 5 } },
-      { id: 'home', label: 'Open house', x: 500, z: 10, focus: 1.45, look: 330, action: { kind: 'toy', toy: 'home', states: 2 } } ],
+      { id: 'way-out', label: 'Back to the crossroads', x: -1010, z: 110, reach: 90, action: { kind: 'road', to: 'crossroads', stop: 'road-moperty' } },
+      { id: 'board', label: 'Flyer board', x: -800, z: -10, focus: 1.5, look: -800, action: { kind: 'toy', toy: 'flyer', states: 5 } },
+      { id: 'visit', label: 'Visit Moperty', x: -540, z: 70, action: { kind: 'link', href: 'https://moperty.id' } },
+      { id: 'home', label: 'Open house', x: 280, z: 10, focus: 1.45, look: 110, action: { kind: 'toy', toy: 'home', states: 2 } } ],
     letters: [],
     encoded: [
       { fact: 'A progressive web app', at: ['visit'] },

diff --git a/game/tests/model.test.ts b/game/tests/model.test.ts
@@ -23,7 +23,7 @@ function coverage(c: Content) { const texts: string[] = []; const collect = (v: 
 test('every master string, link and image is in content', () => { const { m, missT, missL, missA } = coverage(content); console.log(`# master: ${m.texts.size} strings, ${m.links.size} links, ${m.assets.size} images; missing ${missT.length}/${missL.length}/${missA.length}`); console.log('# missing', JSON.stringify({ missT, missL, missA })); assert.deepEqual([missT, missL, missA], [[], [], []]); });
 test('coverage check catches dropped facts', () => { const c = structuredClone(content) as any; c.worlds['blibli-storeroom'].encoded.pop(); c.worlds.moperty.url = 'https://x.y'; c.worlds.moperty.stops.find((s: any) => s.action.kind === 'link').action.href = 'https://x.y'; c.worlds.moperty.logo = 'x'; const r = coverage(c); assert.deepEqual([r.missT.length > 0, r.missL.length, r.missA.length], [true, 1, 1]); });
 const mutate = (fn: (c: any) => void) => { const c = structuredClone(content); fn(c); return c as Content; };
-const CASES: [string, (c: any) => void, RegExp][] = [['encoded stop', c => { c.worlds['blibli-shop'].encoded[0].at = ['nope']; }, /encoded\[0\]\.at.*nope/], ['toy states', c => { c.worlds['blibli-shop'].stops[1].action.states = 1; }, /stops\[1\]\.action/], ['world', c => delete c.worlds.moperty, /moperty/], ['title', c => { c.worlds.blibli.title = ''; }, /worlds\.blibli\.title/], ['stops', c => { c.worlds.radjastone.stops = []; }, /radjastone|stops\[3\]/], ['letter ref', c => { c.worlds.blibli.stops[2].action.letter = 'nope'; }, /stops\[2\]\.action\.letter.*nope/], ['orphan letter', c => { c.worlds.radjastone.stops.find((x: any) => x.action.kind === 'letter' && x.action.letter === 'stack').action = { kind: 'link', href: 'https://x.y' }; }, /letters\.stack/], ['empty letter', c => { c.worlds.blibli.letters[0].blocks = []; }, /letters\[0\]\.blocks/], ['outside bounds', c => { c.worlds.blibli.stops[1].x = 9000; }, /stops\[1\].*outside/], ['dup stop', c => { c.worlds.moperty.stops[2].id = 'visit'; }, /stops\[\d\]\.id/]];
+const CASES: [string, (c: any) => void, RegExp][] = [['encoded stop', c => { c.worlds['blibli-shop'].encoded[0].at = ['nope']; }, /encoded\[0\]\.at.*nope/], ['toy states', c => { c.worlds['blibli-shop'].stops[1].action.states = 1; }, /stops\[1\]\.action/], ['world', c => delete c.worlds.moperty, /moperty/], ['title', c => { c.worlds.blibli.title = ''; }, /worlds\.blibli\.title/], ['stops', c => { c.worlds.radjastone.stops = []; }, /radjastone|stops\[3\]/], ['letter ref', c => { c.worlds.blibli.stops[2].action.letter = 'nope'; }, /stops\[2\]\.action\.letter.*nope/], ['orphan letter', c => { c.worlds.radjastone.stops.find((x: any) => x.action.kind === 'letter' && x.action.letter === 'stack').action = { kind: 'link', href: 'https://x.y' }; }, /letters\.stack/], ['empty letter', c => { c.worlds.blibli.letters[0].blocks = []; }, /letters\[0\]\.blocks/], ['outside bounds', c => { c.worlds.blibli.stops[1].x = 9000; }, /stops\[1\].*outside/], ['dup stop', c => { c.worlds.moperty.stops[2].id = 'board'; }, /stops\[\d\]\.id/]];
 for (const [n, f, re] of CASES) test(`missing data fails by name: ${n}`, () => assert.throws(() => validateContent(mutate(f)), (e: Error) => e instanceof ContentError && re.test(e.message)));
 function places(): Place[] { const r: Place[] = []; for (const w of WORLDS) for (const s of content.worlds[w].stops) { if (w === 'intro') continue; if (s.action.kind !== 'road') r.push({ k: 'walk', world: w, stop: s.id, near: true }); if (s.action.kind === 'letter') r.push({ k: 'letter', world: w, stop: s.id }); } return r; }
 test('every place round-trips through its URL', () => { for (const p of places()) assert.deepEqual(parsePath(content, pathOf(p)), p); assert.equal(parsePath(content, '/nope').k, 'lost'); assert.equal(parsePath(content, '/round/blibli/nope').k, 'lost'); assert.equal(parsePath(content, '/work/moperty').k, 'walk'); assert.equal(parsePath(content, '/work/blibli/highlight').k, 'letter'); });

diff --git a/game/docs/ART_BIBLE.md b/game/docs/ART_BIBLE.md
@@ -26,7 +26,7 @@ Each space uses its base colours plus at most two accents. All values come from 
 | Riverside promenade (street) | Sky `#8fd3f4`, brick paving `#dba38b`, river `#4fa9d6`, palm `#3f9a5b` | Blibli blue `#0092da`, coral `#e8552d` | Cream `#fff4e2`, kraft `#b98450` |
 | First-floor outlet | Brick `#d9a968`, planks `#c58c4d` | Blibli blue `#0092da`, sun `#f6b73c` | Cream `#fff4e2`, ink `#1d2228` |
 | Second-floor store-room | Plank `#8f6f55`, concrete `#8b8275` | Coral `#e8552d`, mint `#35b58a` | Kraft `#b98450`, steel `#3d444e` |
-| Moperty hometown square | Sky `#a9d8f0`, setts `#f1e4cc`, grass `#a9d3a2`, stone `#e3c9a0` | Moperty indigo `#5b6bdc` with lavender `#a3adf2`, window yellow `#f5b400` | Cream `#fff4e2`, steel `#2f343c` |
+| Moperty hometown green | Sky `#a9d8f0`, setts `#f1e4cc`, grass `#a9d3a2`, stone `#e3c9a0` | Moperty indigo `#5b6bdc` with lavender `#a3adf2`, window yellow `#f5b400` | Cream `#fff4e2`, steel `#2f343c` |
 
 Tech colours from `content.ts` appear only as small label bars.
 
@@ -126,28 +126,27 @@ Neither floor carries a written account of the work. Each part of the work is an
 
 Stops carry `focus` and `look`: the camera leans in on the object being used while the courier stands beside it, not in front of it.
 
-### Moperty: the hometown square
+### Moperty: the hometown green
 
-The Moperty space (`src/art/scenes/hometown.ts`) is the square of a small hometown where a handful of homes are on offer. It shows only the product, an app for browsing homes for sale or rent around a hometown, and shows it without a screen: you look around the way people did before the app. Nothing about how it was made or what it was made with is in the scene.
+The Moperty space (`src/art/scenes/hometown.ts`) is a green on a ridge in a small hometown where a handful of homes are on offer. It shows only the product, an app for browsing homes for sale or rent around a hometown, and shows it without a screen: you look around the way people did before the app. Nothing about how it was made or what it was made with is in the scene.
 
-- **Arrival:** the MRT exit stands at the left end: a head house with the stair going down under a teal canopy, and the line's roundel on a totem.
-- **Main space:** the square, paved in pale setts. It is wider and deeper than the Blibli street, so the camera stands further back (zoom .85) and pans further.
-- **The homes:** four folded houses under gabled roofs face the square behind picket fences. Each garden has a board on a stake that says what is on offer by picture alone: a yellow tag for sale, a lavender key for rent.
-- **Open surroundings:** a lane between the homes drops to the valley, built as about twenty-five cut layers. Layers differ in kind, not only in colour (faceted peaks, hills that sweep up from one side, rounded mounds, rolling bands), and alternate pale and deep.
-  - *Card one, the lower town (five layers, about 30 units apart):* a back street of taller houses with a clock tower and poplars; garden trees; a near street of cottages with shutters, flower boxes and washing lines; back-garden hedges with fruit trees; the lane's coursed stone wall with gate posts and flowers.
-  - *Card two, the valley (nine layers, 30 to 50 apart):* a pale hill of terraced fields; a wood on its own sheet behind the next ridge; that ridge with hamlets; a bright hill with orchard rows and a winding road; the far town; the MRT line on slim concrete piers with a train on it; farmland with barns, a silo, haystacks and hedgerow trees; a pale meadow with allotments, a lane with a bus, sheep and a post-and-rail fence. There is no water in it: the Blibli street already has the river.
+- **A layout of its own.** The Blibli street is closed at both sides by relief facades and opens through one gate at the back. This space is the reverse: the homes close the middle of the back, the valley opens at both ends, and nothing stands at the sides but trees. There is no river and no MRT structure in it.
+- **Main space:** the green, paved in pale setts, wider and deeper than the Blibli street, so the camera stands further back (zoom .85) and pans further.
+- **The homes:** four folded houses under gabled roofs stand shoulder to shoulder behind picket fences. Each garden has a board on a stake that says what is on offer by picture alone: a yellow tag for sale, a lavender key for rent.
+- **Open surroundings:** at both ends of the green the ridge falls away to the valley, built as about twenty-five cut layers. Layers differ in kind, not only in colour (faceted peaks, hills that sweep up from one side, rounded mounds, rolling bands), and alternate pale and deep.
+  - *Card one, the lower town (five layers, about 30 units apart):* a back street of taller houses with a clock tower and poplars; garden trees; a near street of cottages with shutters, flower boxes and washing lines; back-garden hedges with fruit trees; the coursed stone wall along the back of the green, with piers and flowers.
+  - *Card two, the valley (nine layers, 30 to 50 apart):* a pale hill of terraced fields; a wood on its own sheet behind the next ridge; that ridge with hamlets; a bright hill with orchard rows and a winding road; the far town; an avenue of poplars with telegraph poles; farmland with barns, a silo, haystacks and hedgerow trees; a pale meadow with allotments, a lane with a bus, sheep and a post-and-rail fence.
   - *The CSS backdrop:* sky, a pale sun, two layers of clouds, three ranges of faceted peaks with zigzag snow caps, then five hills (wooded band, terraced fields, a mound with a village, a deep sweep, rolling woods), each wood on its own sheet behind its hill.
   - *Detail on every sheet:* a pale strip along each crest where light catches the cut edge and darker contour lines below it; trees in three kinds (pine, oak, poplar), each cut in two tones; buildings that vary in roof (gable, hip, side-on, flat), chimneys, dormers, shutters, doors and flower boxes; fields as ploughed stripes lying on the slope.
-- **Enclosed surroundings:** a pair of terraced houses turned inward at each end, their porches, flower boxes, lanterns and steps carved in relief.
-- **The square's furniture:** the town clock stands in a low folded flower bed at the centre (a folded head with a cut face glued on, on a flat post); two long folded stone beds with layered bushes and cut blossoms frame the front edge, with a lamp at each end.
+- **The green's furniture:** the town clock stands in a low folded flower bed at the centre (a folded head with a cut face glued on, on a flat post); two long folded stone beds with layered bushes and cut blossoms frame the front edge, with a lamp at each end; a shade tree stands at each end of the green.
 - **Small stories:** a couple by the clock, a neighbour at her gate, a cat on a fence, moving day at the last home (a folded van, cartons, a mover, a child and a tent-folded dog watching), someone dozing by the bench under the tree with a bicycle beside it.
 - **Thin posts are flat strips.** A folded post has both side faces in view from this wide camera, and the browser tears the ground between two such planes. For the same reason both ground sheets ship as sixteen tiles.
 
 | Stop | What you do | What it stands for |
 |---|---|---|
-| Flyer board | One flyer for each home on the square, with a fringe of tear-off tabs. Each A tears a tab off the next flyer, and that home's board lifts in its garden | Browsing the homes on offer nearby |
+| Flyer board | One flyer for each home on the green, with a fringe of tear-off tabs. Each A tears a tab off the next flyer, and that home's board lifts in its garden | Browsing the homes on offer nearby |
 | Open house | A swings the home's front away on its fold, like a doll's house: a living room, a kitchen, a bedroom and a study, with furniture carved in relief. A again closes it | Looking at one home |
-| Visit Moperty | The A-board by the exit carries the mark; A visits moperty.id | The product |
+| Visit Moperty | The A-board near the flyer board carries the mark; A visits moperty.id | The product |
 
 ### Outside and inside match
 
@@ -188,7 +187,7 @@ Measured on the worst case: software GPU, 4x CPU throttle, DPR 2.625, landscape.
 | Street (riverside promenade) | 210 (uses 209) |
 | First-floor outlet | 75 |
 | Second-floor store-room | 115 |
-| Moperty hometown square | 210 (uses 201) |
+| Moperty hometown green | 210 (uses 203) |
 
 Panels that swap with a toy (`show`) or ride a belt (`group`) are baked as phantoms: lit, but casting no shadow, so variants sharing a spot never shade each other and a belt box leaves no shadow where it no longer is. Hidden variants are not in the page, so they cost nothing.
 
